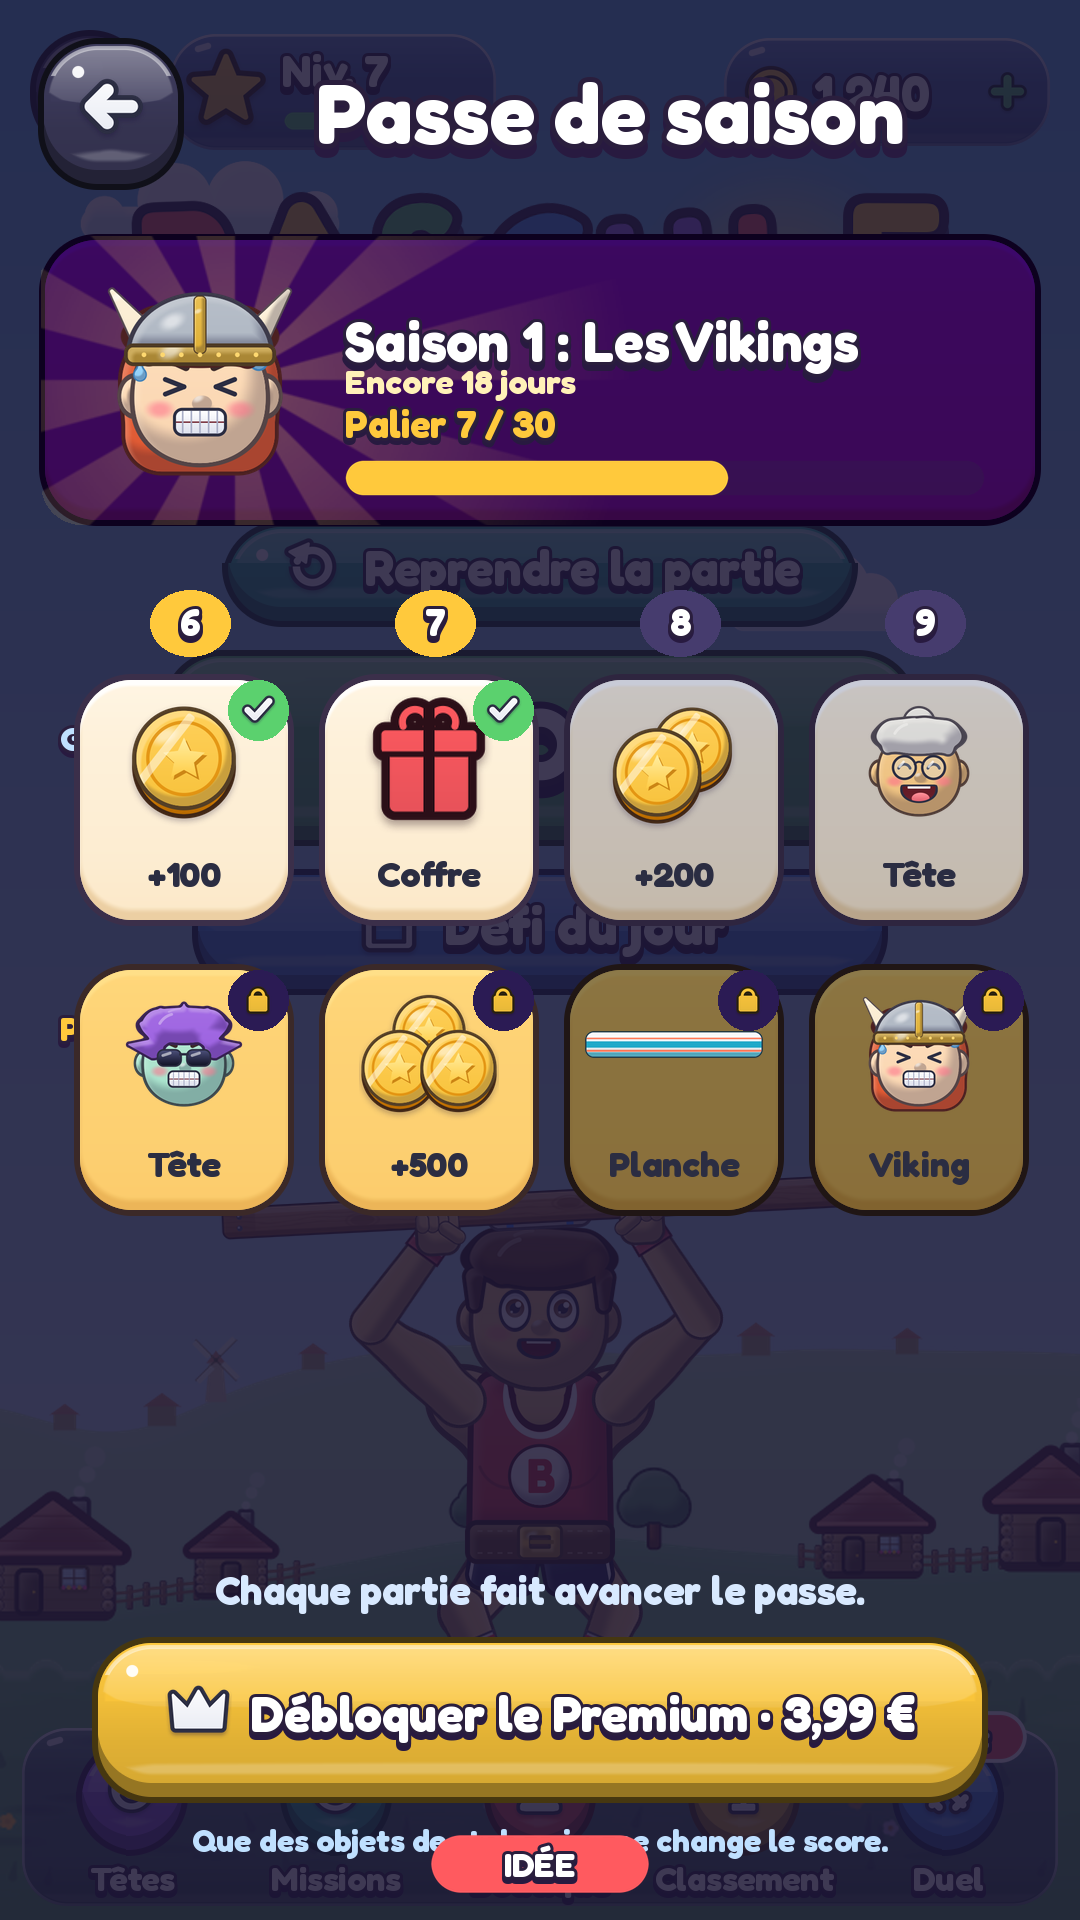
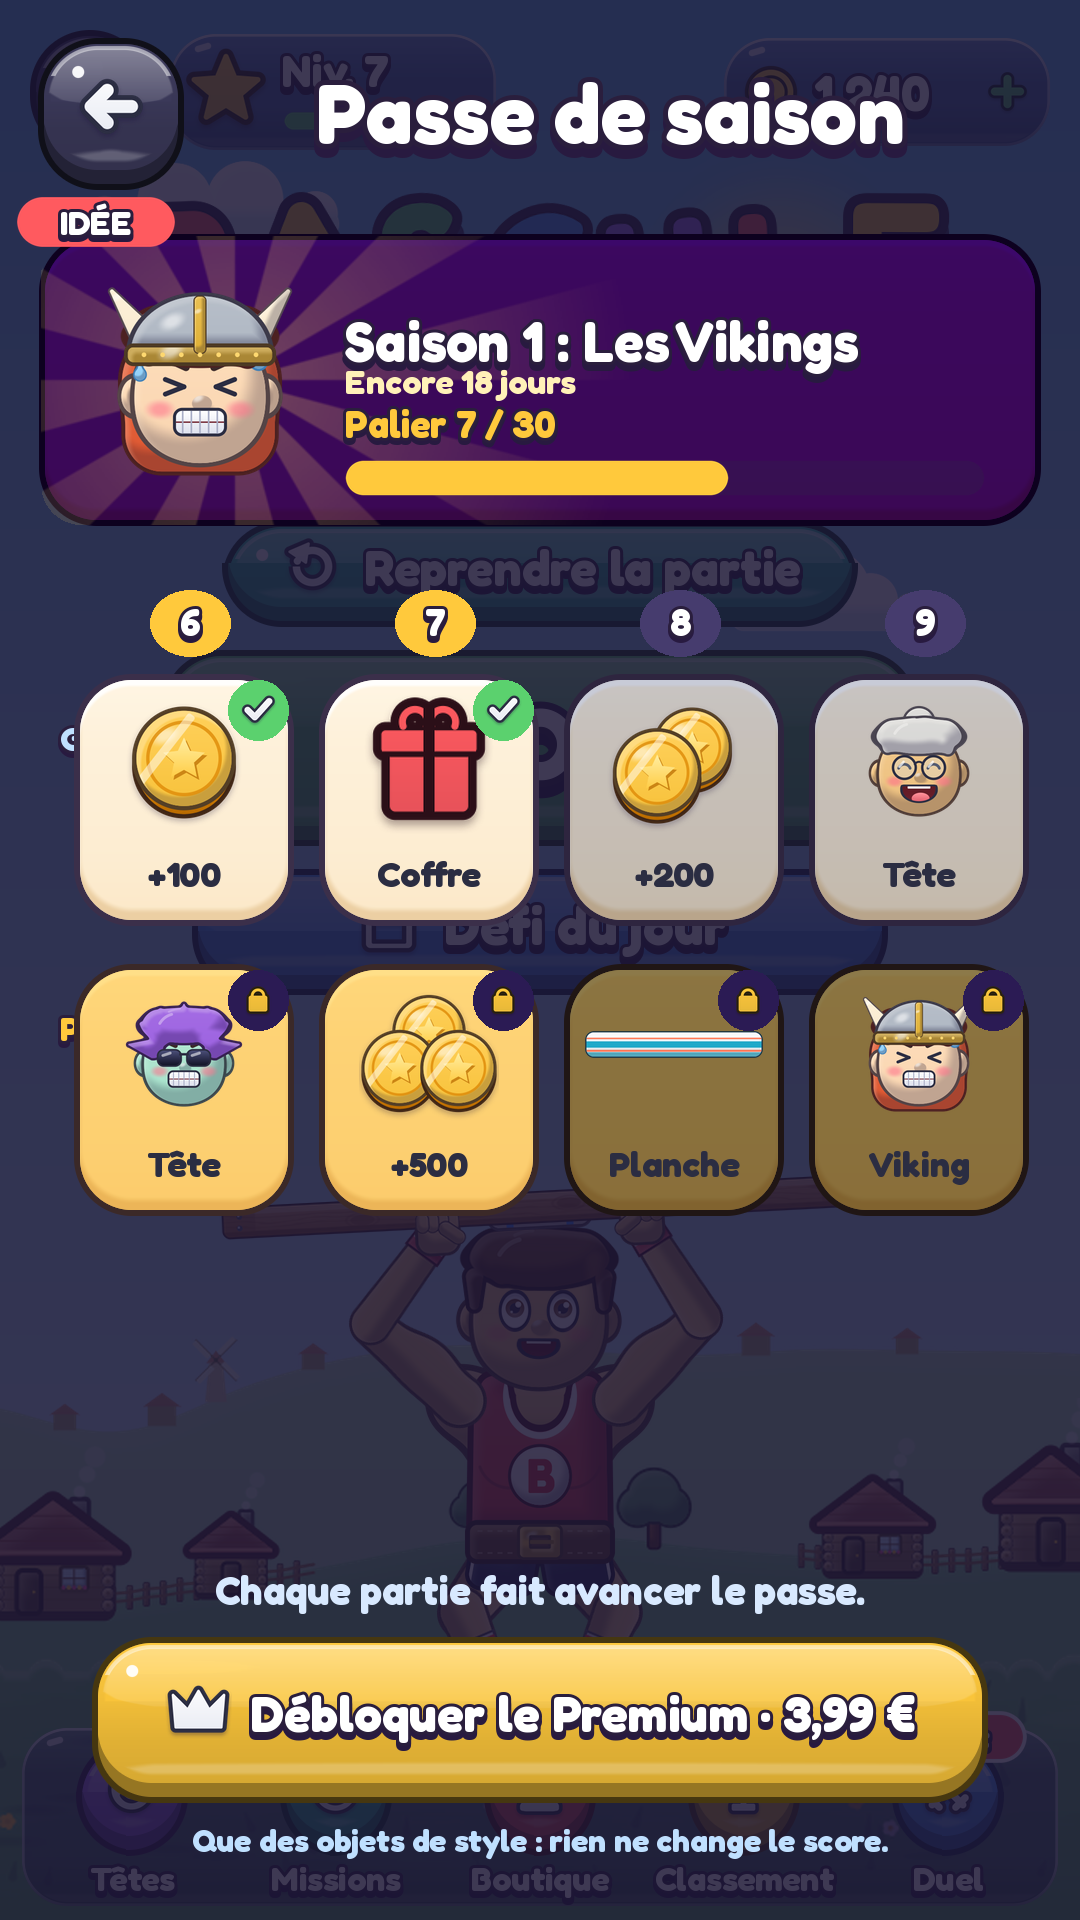
Maquettes d'idées : étiquette IDÉE déplacée
Claude-Session: https://claude.ai/code/session_01GjF5pVKpWLsxsJrgQmasFX

Changed region(s): [[0.3972, 0.9375, 0.6111, 1.0], [0.0, 0.0938, 0.1833, 0.1562]]

diff --git a/Tools/ideas_preview.py b/Tools/ideas_preview.py
@@ -24,7 +24,7 @@ GOLD = sp.rgb("#FFC93C")
 
 def idea_tag(img):
     """Étiquette « IDÉE » : ces écrans n'existent pas encore."""
-    b = (W / 2 - 110, H - 86, W / 2 + 110, H - 26)
+    b = (16, 196, 176, 248)
     sp.pill(img, b, color=(255, 90, 95, 255))
     sp.title(img, "IDÉE", b, 34)
 
